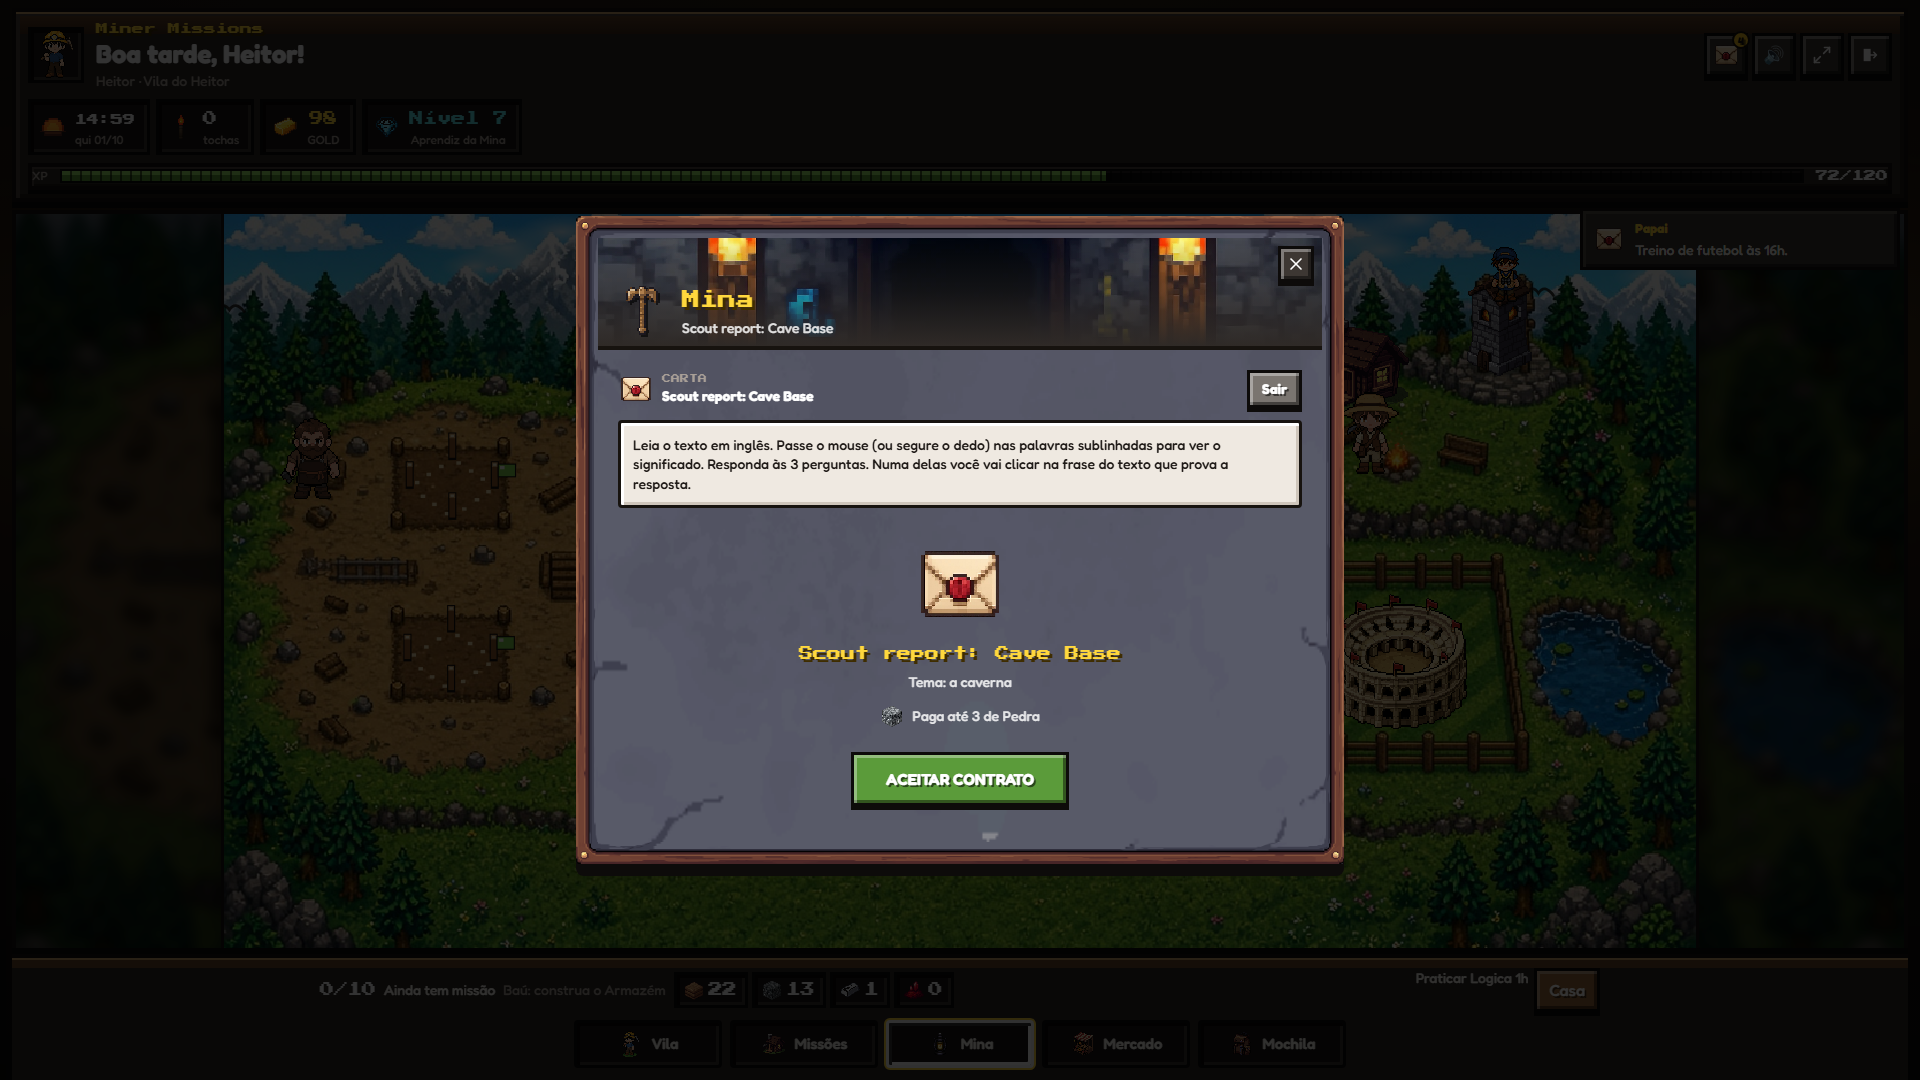
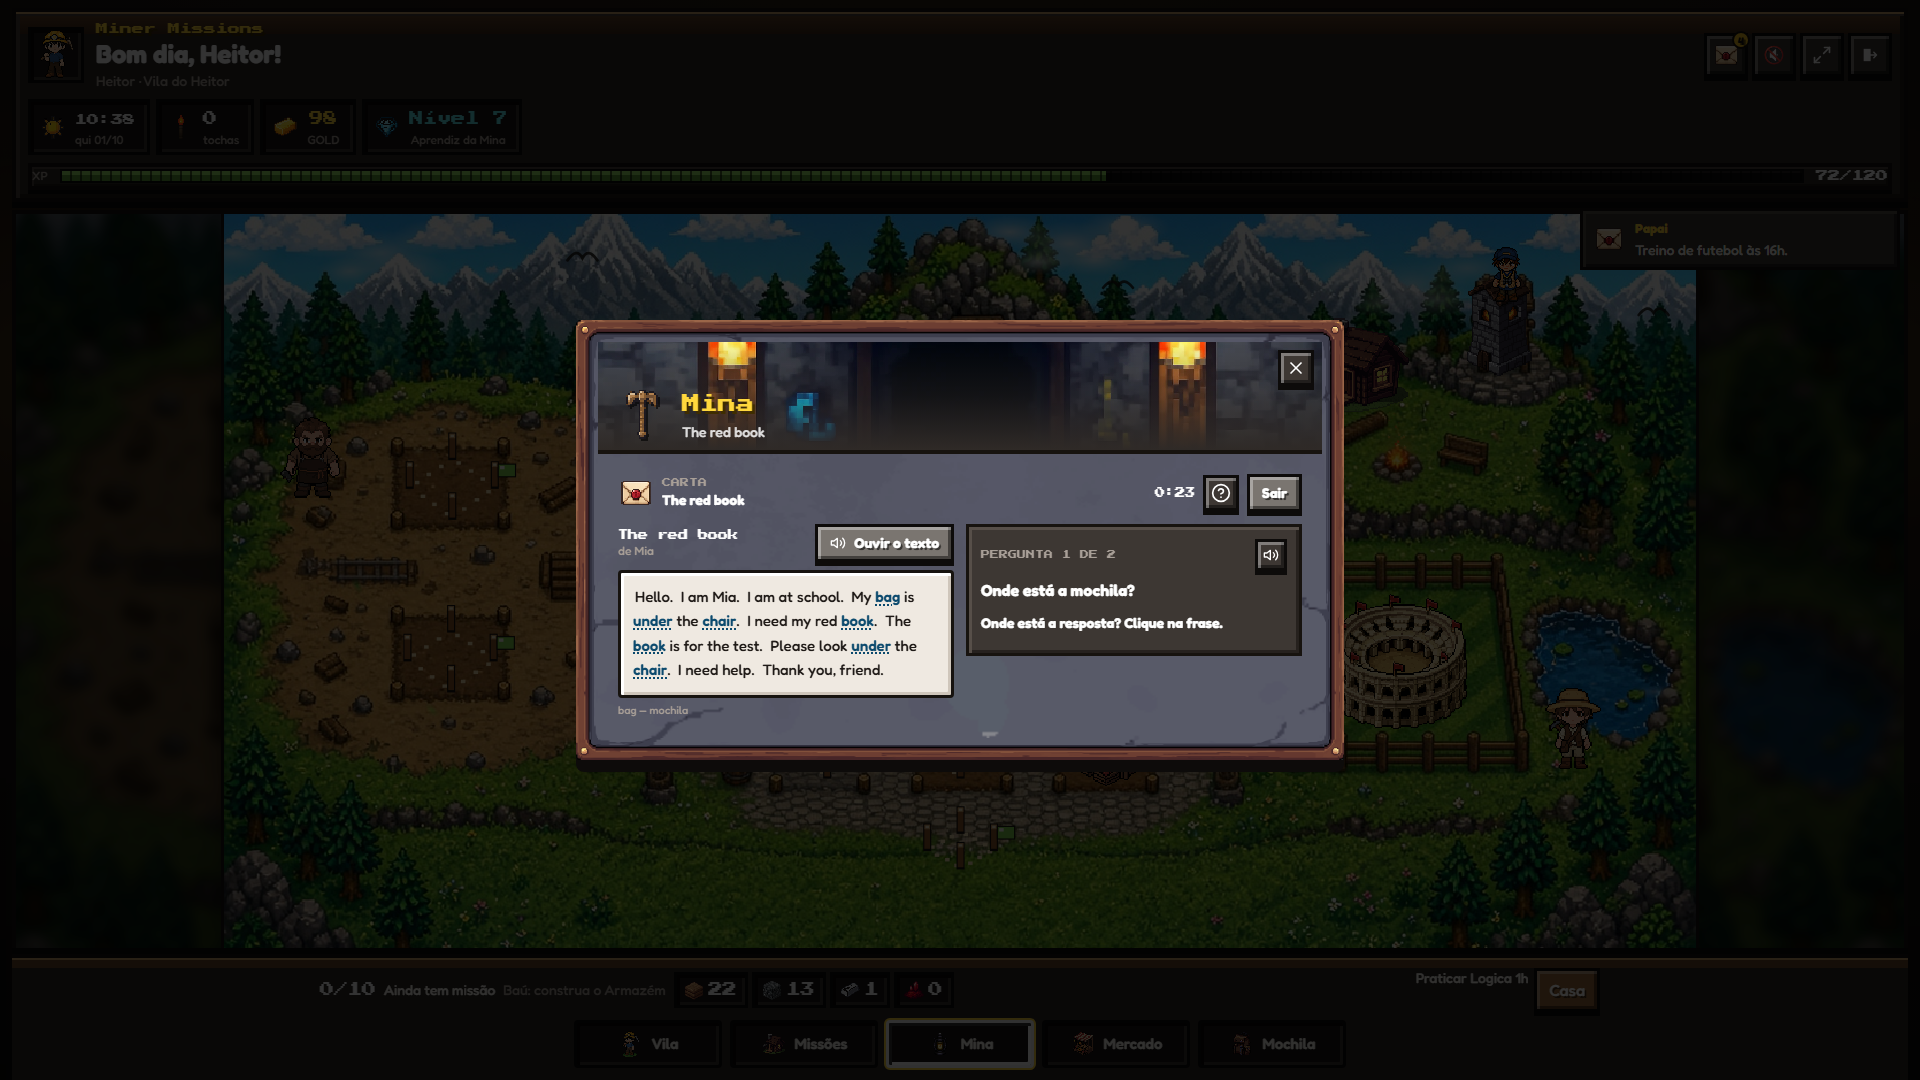
p17: passo 3, cartas geradas e glossario por toque

diff --git a/src/components/hero/english/base/LetterContract.tsx b/src/components/hero/english/base/LetterContract.tsx
@@ -101,32 +101,24 @@ function segment(sentence: string, glossary: Map<string, string>, maxWords: numb
   return segs;
 }
 
-/** Palavra do glossário: toque curto mostra a tradução e fala a palavra. */
+/** Palavra do glossário: toque curto mostra a tradução na linha de baixo e fala a palavra. */
 const GlossWord: React.FC<{ text: string; pt: string; onShow: () => void }> = ({ text, pt, onShow }) => {
-  const [show, setShow] = useState(false);
-
-  const tap = () => {
-    setShow(true);
+  const tap = (event: React.MouseEvent) => {
+    event.stopPropagation();
     onShow();
     void playText(text);
   };
 
   return (
-    <span className="relative inline-block">
-      <button
-        type="button"
-        className="underline decoration-dotted decoration-2 underline-offset-2 cursor-pointer text-sky-900 font-semibold bg-transparent border-0 p-0"
-        onClick={tap}
-        data-testid="gloss-word"
-      >
-        {text}
-      </button>
-      {show && (
-        <span role="tooltip" className="absolute left-1/2 -translate-x-1/2 bottom-full mb-1 z-20 whitespace-nowrap mc-panel text-white text-xs px-2 py-1 rounded">
-          {pt}
-        </span>
-      )}
-    </span>
+    <button
+      type="button"
+      className="underline decoration-dotted decoration-2 underline-offset-2 cursor-pointer text-sky-900 font-semibold bg-transparent border-0 p-0"
+      aria-label={pt}
+      onClick={tap}
+      data-testid="gloss-word"
+    >
+      {text}
+    </button>
   );
 };
 
@@ -144,6 +136,7 @@ const LetterContract: React.FC<ContractScreenProps<'letter'>> = ({ contract, sfx
     optionsOpen: item.kind !== 'comprehension',
   })));
   const [glossaryTaps, setGlossaryTaps] = useState(0);
+  const [glossNow, setGlossNow] = useState('');
   const [reading, setReading] = useState(false);
   const [readingId, setReadingId] = useState<number | null>(null);
   const [finished, setFinished] = useState(false);
@@ -336,7 +329,7 @@ const LetterContract: React.FC<ContractScreenProps<'letter'>> = ({ contract, sfx
                 >
                   {s.segments.map((seg, k) =>
                     seg.gloss !== undefined ? (
-                      <GlossWord key={k} text={seg.text} pt={seg.gloss} onShow={() => setGlossaryTaps((n) => n + 1)} />
+                      <GlossWord key={k} text={seg.text} pt={seg.gloss} onShow={() => { setGlossaryTaps((n) => n + 1); setGlossNow(`${seg.text} — ${seg.gloss}`); }} />
                     ) : (
                       <React.Fragment key={k}>{seg.text}</React.Fragment>
                     )
@@ -347,7 +340,7 @@ const LetterContract: React.FC<ContractScreenProps<'letter'>> = ({ contract, sfx
             );
           })}
         </div>
-        <p className="text-[11px] mc-muted mt-1">Palavras sublinhadas: passe o mouse ou segure o dedo para ver o significado.</p>
+        <p className="text-[11px] mc-muted mt-1" data-testid="gloss-line">{glossNow || 'Toque na palavra sublinhada. Ela mostra o que quer dizer.'}</p>
       </div>
 
       {/* Perguntas ou tradução */}

diff --git a/src/services/englishAi.ts b/src/services/englishAi.ts
@@ -439,7 +439,7 @@ function c1FromRaw(raw: unknown, vocabKnown: string[] = []): LetterContent | nul
       return [{ en: rowg.en, pt: rowg.pt }];
     }).slice(0, 5)
     : [];
-  if (glossary.length < 2) return null;
+  if (glossary.length < 3) return null;
   return {
     genre: 'letter',
     title: typeof row.title === 'string' && row.title ? row.title : 'Carta',

diff --git a/docs/etapas/relatorios/P17.md b/docs/etapas/relatorios/P17.md
@@ -196,22 +196,92 @@ Ficou de fora nesta sessão: a U1 jogada ao vivo até o selo, e as fotos do cart
 
 ## Passo 3 — Carta
 
-A frente travou duas vezes com o código já escrito. Fechei a barra e o commit em cima desse código, sem gerar as quatro cartas ao vivo.
+Sentimento: a carta é um recado curto com um motivo, e a palavra sublinhada se abre num toque, na linha de baixo, sem tapar o texto.
 
-- `letterLevel` começa na C1, sobe com 3 certas de primeira e desce com 2 fracas, sem passar do nível do painel.
-- A pergunta da C1 não pode ter palavra de pergunta em inglês.
-- O revisor com lixo cai no banco offline.
-- As 10 cartas C1 estão em `src/data/englishC1Letters.ts` (c1-01 a c1-10). O teste confere 30 a 50 palavras, glossário e pergunta em português. O texto integral fica nesse arquivo, para a leitura do pai antes da junção.
-- O glossário por toque tem foto em `docs/etapas/relatorios/p17/carta-gloss-720.png` e `carta-gloss-1080.png`.
+### O que mudou nesta fechada
 
-Ficou de fora: três Cartas C1 e uma C2 geradas na conta de teste, com a nota do revisor.
+- O glossário da C1 só aceita 3 palavras novas ou mais. Palavra que ele já viu sai.
+- O toque na palavra não escolhe a frase da prova. A tradução fica na linha de baixo (`bag — mochila`) e a voz fala. Saiu o balão que cobria o botão ou a linha seguinte.
+- A frase da tela é "Toque na palavra sublinhada. Ela mostra o que quer dizer."
+
+### Cartas geradas
+
+Três C1 e uma C2, pelo mesmo prompt e pelo revisor `gpt-4o`. Não gravei plano novo. A carta do dia 01/10 da conta de teste voltou a ser "Scout report: Cave Base", aberta.
+
+**C1 · a escola · semente 17011 · IA · coerência 5, uma resposta, uma frase, precisa ler**
+
+Help with my school bag. De Luna.
+
+Hello! I have a problem. My bag is under the chair. I need my book and pencil. Can you bring them? The pencil is next to the bag. Thank you!
+
+1. Onde está o lápis? ao lado da mochila / na mochila / em cima da mesa. Certa: ao lado da mochila. Prova: "The pencil is next to the bag." A mesa não aparece.
+2. O que Luna quer? meu livro e meu lápis / o livro e o lápis dela / a mochila e a cadeira. Certa: o livro e o lápis dela. Prova: "I need my book and pencil." "Meu" é o erro de quem troca quem pede.
+
+**C1 · o campinho · semente 17022 · IA · coerência 5**
+
+O Campinho Novo. De Luna.
+
+Hi! I need help with the campinho. There is a ball and a bag. Put the ball in the bag. Do you want to play? Take the bag and come fast.
+
+1. O que Luna quer que você faça? Coloque a bola na bolsa / Jogue futebol / Feche a bolsa. Certa: a primeira. Prova: "Put the ball in the bag."
+2. Para onde Luna quer que você vá? Para o campinho / Para casa / Para a escola. A prova citada é "Take the bag and come fast." Essa frase não diz o lugar. A palavra "campinho" também entrou no inglês. O revisor deu 5 mesmo assim. A geração aceitou. Não reescrevi o banco por causa disso.
+
+**C1 · a mina · semente 17033 · IA · coerência 5**
+
+Help in the mine. De Luna.
+
+Hi! I need help in the mine. There is a big hole. Your pickaxe is near the box. Take it and come fast. Can you find the green light? Is the light near the box?
+
+1. Onde está a picareta? perto da caixa / na mina / em cima da mesa. Certa: perto da caixa. Prova: "Your pickaxe is near the box."
+2. O que você deve fazer? tomar a picareta / abrir o buraco / acender a luz. A certa do modelo é a primeira, e "tomar" é tradução torta de "take". A prova é "Take it and come fast."
+
+**C2 · a vila · semente 17044 · IA · coerência 4, uma resposta, uma frase, precisa ler**
+
+Help with the lantern. De Nina. Nível 2, perguntas em inglês.
+
+Hello friend, I have a small problem. My lantern is heavy. Can you help me? I want to carry it to the village. The village is near the river. I need a rope and a ladder. Can you bring some tools? I also like to build a new tunnel. It is dark there. I love the village. There are five houses and two farms. Thank you! Nina
+
+1. How many houses are in the village? one lantern / three tunnels / five houses / two farms. Certa: five houses. Prova: "There are five houses and two farms." "Two farms" está na mesma frase e é o erro de quem lê o outro número.
+2. Is the tunnel dark? no it is near / yes it is dark / yes it is heavy / no it is bright. Certa: yes it is dark. Prova: "It is dark there."
+
+O revisor deu 4: o pedido é a lanterna, e o túnel é um detalhe a mais.
+
+As 10 cartas do banco continuam em `src/data/englishC1Letters.ts`. O pai aprovou esse banco em 02/10.
+
+### Fotos
+
+Conta `teste@flash.com`, uid `DydxTQ0cGEbX46LLlQxxD123pQD3`, `?d=2026-10-01`, porta 5184. A carta da foto é a c1-01, só na hora do clique. Depois o documento voltou ao título e ao estado de antes. Não cliquei em Entregar.
+
+- `docs/etapas/relatorios/p17/carta-gloss-720.png`
+- `docs/etapas/relatorios/p17/carta-gloss-1080.png`
+
+Frame lido nas duas: nada sobreposto, cortado ou fora do clique. A Vila continua atrás. A linha diz "bag — mochila". A pergunta é "Onde está a mochila?" e o quadro pede a frase antes das opções.
+
+### Barra da lei (passo 3)
+
+1. Intenção: carta com motivo, palavra sublinhada, pergunta em português na C1.
+2. Sistema: o quadro da carta que já existia. Sem CSS novo.
+3. Fonte: a pergunta e a linha da tradução são Fredoka.
+4. Ícone: o envelope que já estava, tamanho de HUD.
+5. Hierarquia: a pergunta e a linha "bag — mochila" leem-se juntas.
+6. A cena continua.
+7. 720 e 1080 lidos. O balão que cobria a palavra saiu.
+8. Mundo: a Carta continua um contrato da Mina.
+9. Economia: não gravei entrega. O nível da Mina não sobe aqui.
+10. A prova da frase continua antes das opções.
+11. A linha mostra a tradução do toque.
+12. O toque é o botão da palavra. Esc continua no Sair.
+13. O toque fala a palavra.
+14. Copy falada, curta.
+15. Evidência acima.
+16. A carta do dia foi devolvida aberta, com o título de antes.
 
 ### Barra de comando (passo 3)
 
 - `npx tsc --noEmit -p tsconfig.app.json`: 0 erros.
 - `npx eslint src --max-warnings 8`: 0 erros, 8 avisos de sempre.
-- `npm run test:english`: 46 arquivos, todos passaram.
-- `npm run test:village`: 15 arquivos, todos passaram.
+- `npm run test:english`: 48 arquivos, todos passaram.
+- `npm run test:village`: 16 arquivos, todos passaram.
 - `npx vite build`: ok.
 
 ## Passo 4 — Comerciante, nível, prova e painel
